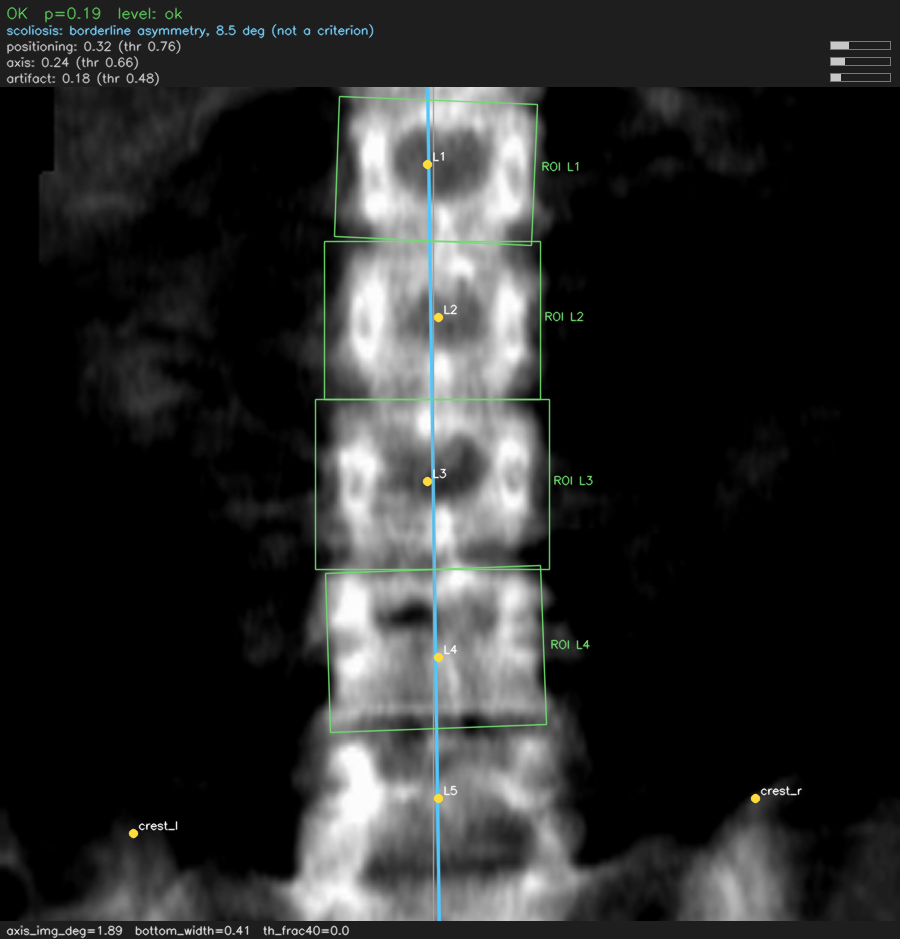
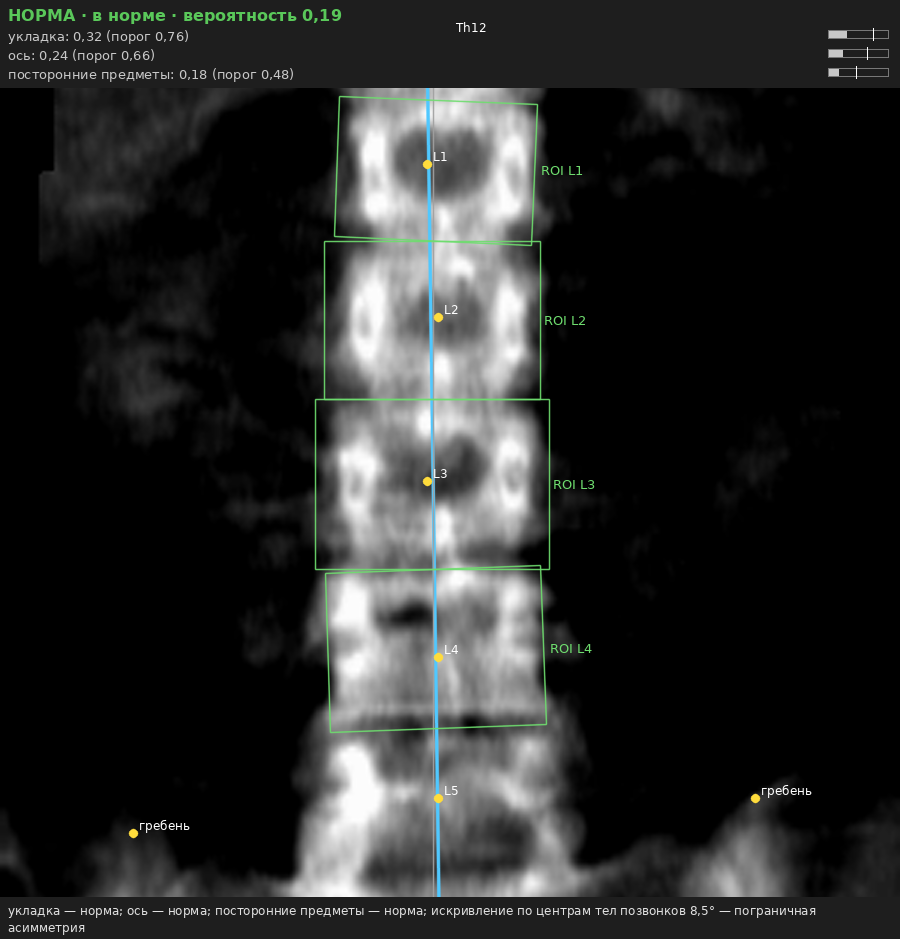
Презентация: исправлены подписи кейсов по меткам эксперта (079 — у эксперта норма, заменён на 005: предметы при сколиозе), наклон оси 6,1° на слайде логики, оверлеи по-русски

diff --git a/presentation/build_deck.py b/presentation/build_deck.py
@@ -246,7 +246,7 @@ ph = d.pic(s, os.path.join(IMG, "cases_src", "052_spine.png"), y + Inches(0.05),
 d.box(s, d.L + Inches(3.85), y + Inches(0.02), d.CW - Inches(3.85), Inches(3.9),
       "Снимок № 052, поясничный отдел.\n"
       "1. Ориентиры: сеть нашла центры тел L1–L5 и гребни подвздошных костей (уверенность 0,8–0,9).\n"
-      "2. Измерения: наклон оси по массе кости 9,4° при норме до 5°; полоса таза у нижнего края 0,33 — гребни в кадре; тонких ярких линий нет.\n"
+      "2. Измерения: наклон оси по массе кости 6,1° при норме до 5°; гребни подвздошных костей и Th12 в кадре; посторонних теней нет.\n"
       "3. Критерии: ось 0,83 при пороге 0,66 — нарушение; укладка 0,26 при пороге 0,76; предметы 0,09 при пороге 0,48.\n"
       "4. Сколиоз: угол искривления по центрам тел 6,5° — пограничная асимметрия, на критерии не влияет.\n"
       "5. Вердикт: «Не выровнена ось позвоночника», уровень «переснять»; рекомендация — проверить положение пациента относительно оси стола. "
@@ -339,11 +339,11 @@ d.box(s, d.L, y + Inches(2.95), d.CW, Inches(0.9),
       "Минимум: 2 ядра, 6 ГБ ОЗУ. Рекомендуется: 8 ядер, 16 ГБ ОЗУ. Архив образа 1,4 ГБ, веса 0,9 ГБ, версии зависимостей зафиксированы.", 18)
 d.refs(s, "Собственные замеры 24–28.09.2026: README.md, раздел «Железо и время»; requirements.lock")
 
-s, y = d.slide("Кейсы (1 из 2): отклонение оси, посторонние предметы, сколиоз — вердикт системы рядом с оценкой эксперта", "Кейсы")
+s, y = d.slide("Кейсы (1 из 2): отклонение оси, предметы при сколиозе, сколиоз без нарушений — вердикт системы рядом с оценкой эксперта", "Кейсы")
 d.pic(s, os.path.join(IMG, "cases2a.jpg"), y, max_w=d.CW, max_h=Inches(3.95))
 d.refs(s, "Собственные данные: снимки обучающего набора, вердикты конвейера после доработки 16.10; подписи — presentation/make_cases.py")
 
-s, y = d.slide("Кейсы (2 из 2): снимок у порога — «проверить укладку», бедро с двумя претензиями, норма", "Кейсы")
+s, y = d.slide("Кейсы (2 из 2): снимок у порога — «проверить укладку», бедро с расхождением с экспертом, норма", "Кейсы")
 d.pic(s, os.path.join(IMG, "cases2b.jpg"), y, max_w=d.CW, max_h=Inches(3.95))
 d.refs(s, "Собственные данные: снимки обучающего набора, вердикты конвейера после доработки 16.10; подписи — presentation/make_cases.py")
 

diff --git a/presentation/make_cases.py b/presentation/make_cases.py
@@ -11,12 +11,12 @@ SRC = os.path.join(HERE, "img", "cases_src")
 FONT = "/System/Library/Fonts/Supplemental/Arial.ttf"
 FONT_B = "/System/Library/Fonts/Supplemental/Arial Bold.ttf"
 CASES = [
-    ("052_spine", "Ось отклонена на 9°", "система: не выровнена ось → переснять", "эксперт: нарушение оси"),
-    ("079_spine", "Предметы и укладка", "система: предметы, укладка → переснять", "эксперт: предметы, укладка"),
-    ("011_spine", "Сколиоз", "система: деформация 28°, укладка в норме", "эксперт: «сколиоз, не верная разметка»"),
+    ("052_spine", "Ось отклонена", "система: не выровнена ось (наклон 6,1°) → переснять", "эксперт: нарушение оси"),
+    ("005_spine", "Предметы при сколиозе", "система: предметы → переснять; деформация 15,7° отдельно", "эксперт: предметы; «сколиоз»"),
+    ("011_spine", "Сколиоз", "система: деформация 28°, укладка в норме", "эксперт: норма; «сколиоз, не верная разметка»"),
     ("023_spine", "Укладка у порога", "система: проверить укладку (0,55 при пороге 0,76)", "эксперт: нарушение укладки"),
-    ("059_hipL", "Бедро", "система: укладка бедра → переснять; поле ROI у порога", "эксперт: поле ROI"),
-    ("001_spine", "Норма", "система: в норме; пограничная асимметрия 8°", "эксперт: норма"),
+    ("059_hipL", "Бедро: расхождение", "система: укладка бедра → переснять; поле у порога", "эксперт: поле сканирования"),
+    ("001_spine", "Норма", "система: в норме", "эксперт: норма"),
 ]
 CARD_W, CAP_H, PAD = 760, 118, 14
 
